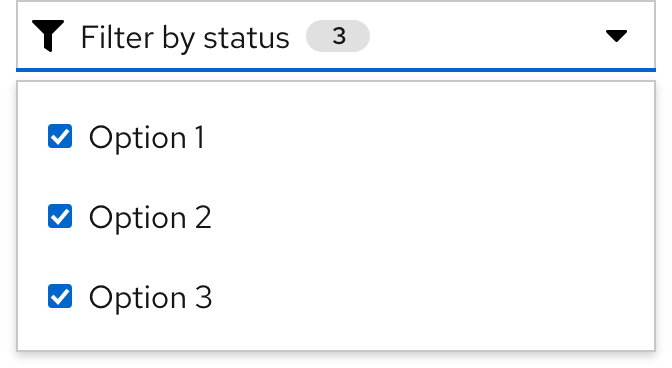
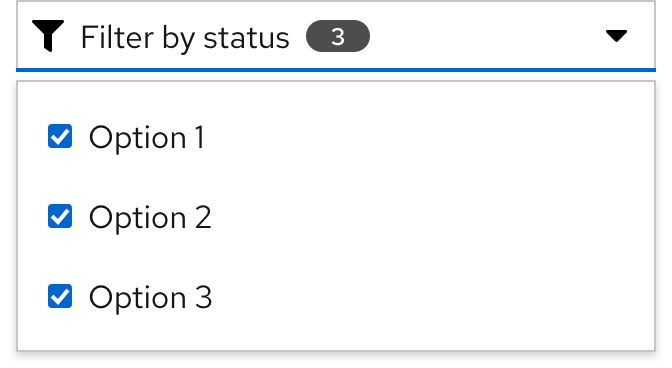
fix(badge): dpo tokens (#1912)
* fix(badge): dpo tokens

* test(badge): update test cases for DPO tokens

* chore: update deps

* test(badge): update specs for DPO tokens

* fix(badge) status states for docs and changeset update

* docs(badge): align variant names on the Guidelines page and update `state` attributes on Overview page

* docs(badge): update changeset + improve formatting

* fix(badge): update deprecated aliases per guidance

* docs(badge): make `deprecated` visible for legacy `critical` state

* docs(badge): update images that had old badge colors

* feat(badge): add back the minimum width

* fix(badge): corrected states in caution badge demo

* fix(badge): corrected states in color-context demo

---------

Changed region(s): [[0.4375, 0.0299, 0.5625, 0.1495]]

diff --git a/elements/rh-badge/rh-badge.ts b/elements/rh-badge/rh-badge.ts
@@ -2,6 +2,7 @@ import { LitElement, html } from 'lit';
 import { customElement } from 'lit/decorators/custom-element.js';
 import { property } from 'lit/decorators/property.js';
 import { classMap } from 'lit-html/directives/class-map.js';
+import { observes } from '@patternfly/pfe-core/decorators/observes.js';
 
 import { colorContextConsumer } from '@rhds/elements/lib/context/color/consumer.js';
 
@@ -10,11 +11,12 @@ import styles from './rh-badge.css';
 /**
  * A badge is used to annotate other information like a label or an object name.
  *
- * - **info**: Indicates informative or low impact
- * - **success**: Indicates stability or completion
- * - **moderate**: Indicates caution
- * - **important**: Indicates an error
- * - **critical**: Indicates danger or something critical
+ *  - `neutral` - Indicates generic information or a message with no severity.
+ *  - `danger` - Indicates a danger state, like an error that is blocking a user from completing a task.
+ *  - `warning` - Indicates a warning state, like a non-blocking error that might need to be fixed.
+ *  - `caution` - Indicates an action or notice which should immediately draw the attention
+ *  - `info` - Indicates helpful information or a message with very little to no severity.
+ *  - `success` - Indicates a success state, like if a process was completed without errors.
  *
  * @summary Annotates information like a label or object
  *
@@ -28,12 +30,17 @@ export class RhBadge extends LitElement {
   /**
    * Denotes the state-of-affairs this badge represents
    */
-  @property({ reflect: true }) state?:
-    | 'info'
+  @property({ reflect: true }) state:
+    | 'danger'
+    | 'warning'
+    | 'caution'
+    | 'neutral'
     | 'success'
-    | 'moderate'
-    | 'important'
-    | 'critical';
+    | 'moderate' // deprecated
+    | 'important' // deprecated
+    | 'critical' // deprecated
+    | 'info' =
+      'neutral';
 
   /**
    * Sets a numeric value for a badge.
@@ -49,8 +56,31 @@ export class RhBadge extends LitElement {
    */
   @property({ reflect: true, type: Number }) threshold?: number;
 
+  /** Ensures that state is consistent, regardless of input */
+  @observes('state', { waitFor: 'updated' })
+  private stateChanged() {
+    const state = this.state.toLowerCase();
+    switch (state) {
+      // the first four are deprecated pre-DPO status names
+      case 'moderate': this.state = 'warning'; break;
+      case 'important': this.state = 'caution'; break;
+      case 'critical': this.state = 'danger'; break;
+      case 'note': this.state = 'info'; break;
+      // the following are DPO-approved status names
+      case 'danger':
+      case 'warning':
+      case 'caution':
+      case 'neutral':
+      case 'info':
+      case 'success':
+        return;
+      default:
+        this.state = 'neutral';
+    }
+  }
+
   override render() {
-    const { threshold, number, textContent, on = '', state = '' } = this;
+    const { threshold, number, textContent, on = 'light', state = 'neutral' } = this;
     const displayText =
         (threshold && number && (threshold < number)) ? `${threshold.toString()}+`
       : (number != null) ? number.toString()
@@ -59,8 +89,8 @@ export class RhBadge extends LitElement {
     return html`
       <span class="${classMap({
         on: true,
-        [on]: !!on,
-        [state]: !!state,
+        [on]: true,
+        [state]: true,
       })}">${displayText}</span>
     `;
   }

diff --git a/elements/rh-badge/test/rh-badge.spec.ts b/elements/rh-badge/test/rh-badge.spec.ts
@@ -13,11 +13,11 @@ describe('<rh-badge>', function() {
         .and
         .to.be.an.instanceOf(RhBadge);
   });
-  it(`should have a background color '--rh-color-surface-lighter' when state is unset`, async function() {
+  it(`should have a background color '--rh-color-status-neutral-on-light' when state is unset`, async function() {
     const element = await createFixture <RhBadge>(html`<rh-badge></rh-badge>`);
     // NB: querying shadow root in tests is bad, mmkay?
     const styles = getComputedStyle(element.shadowRoot!.querySelector('.on')!);
-    expect(styles.backgroundColor).to.be.colored(tokens.get('--rh-color-surface-lighter')!);
+    expect(styles.backgroundColor).to.be.colored(tokens.get('--rh-color-status-neutral-on-light')!);
   });
 });
 
@@ -34,11 +34,12 @@ it('should have a pill shape and padding on left and right only', async function
 });
 
 for (const [state, token] of Object.entries({
-  info: '--rh-color-status-note-on-light',
-  success: '--rh-color-status-success-on-light',
-  moderate: '--rh-color-status-caution-on-light',
-  important: '--rh-color-status-warning-on-light',
-  critical: '--rh-color-status-danger-on-light',
+  neutral: '--rh-color-status-neutral',
+  info: '--rh-color-status-info',
+  success: '--rh-color-status-success',
+  caution: '--rh-color-status-caution',
+  warning: '--rh-color-status-warning',
+  danger: '--rh-color-status-danger',
 })) {
   describe(`state="${state}"`, function() {
     let element: RhBadge;
@@ -52,18 +53,17 @@ for (const [state, token] of Object.entries({
       // NB: querying shadow root in tests is bad, mmkay?
       styles = getComputedStyle(element.shadowRoot!.querySelector('.on')!);
     });
-    it(`should have a background color '${token}'`, async function() {
-      expect(styles.backgroundColor).to.be.colored(tokens.get(token)!);
+    it(`should have a background color '${token}-on-light'`, async function() {
+      expect(styles.backgroundColor).to.be.colored(tokens.get(`${token}-on-light`)!);
     });
     describe('on a dark background', function() {
-      const darkToken = token.replace('on-light', 'on-dark');
       beforeEach(async function() {
         await createFixture<RhSurface>(html`
           <rh-surface color-palette="darkest">${element}</rh-surface>
         `);
       });
-      it(`should have a background color '${darkToken}'`, async function() {
-        expect(styles.backgroundColor).to.be.colored(tokens.get(darkToken)!);
+      it(`should have a background color '${token}-on-dark'`, async function() {
+        expect(styles.backgroundColor).to.be.colored(tokens.get(`${token}-on-dark`)!);
       });
     });
   });

diff --git a/elements/rh-badge/rh-badge.css b/elements/rh-badge/rh-badge.css
@@ -6,25 +6,25 @@ span {
   white-space: nowrap;
   text-align: center;
   aspect-ratio: var(--_aspect-ratio);
-  background-color: var(--rh-color-surface-lighter, #f2f2f2);
   border-radius: var(--rh-border-radius-pill, 64px);
-  color: var(--rh-color-text-primary);
-  min-width: var(--_badge-size);
+  min-width: var(--_badge-size, var(--rh-length-lg, 16px));
   font-size: var(--rh-font-size-body-text-xs, 0.75rem);
   font-weight: 700;
   line-height: var(--rh-line-height-body-text, 1.5);
   padding-inline: var(--_badge-padding, var(--rh-space-md, 8px));
 }
 
-.on.dark { background-color: var(--rh-color-surface-darker, #1f1f1f); }
-.on.info { background-color: var(--rh-color-status-note); }
+.on.dark { color: var(--rh-color-text-primary-on-light, #151515); }
+.on.light { color: var(--rh-color-text-primary-on-dark, #ffffff); }
+
+.on.neutral { background-color: var(--rh-color-status-neutral); }
+.on.info { background-color: var(--rh-color-status-info); }
 .on.success { background-color: var(--rh-color-status-success); }
-.on.moderate { background-color: var(--rh-color-status-caution); }
-.on.important { background-color: var(--rh-color-status-warning); }
-.on.critical { background-color: var(--rh-color-status-danger); }
+.on.caution { background-color: var(--rh-color-status-caution); }
+.on.warning { background-color: var(--rh-color-status-warning); }
+.on.danger { background-color: var(--rh-color-status-danger); }
 
-.info.on.light { color: var(--rh-color-text-primary-on-dark, #ffffff); }
-
-:is(.info,.success,.moderate,.important,.critical).on.dark {
+.on.light.warning,
+.on.light.caution {
   color: var(--rh-color-text-primary-on-light, #151515);
 }

diff --git a/elements/rh-badge/demo/color-context.html b/elements/rh-badge/demo/color-context.html
@@ -1,8 +1,8 @@
 <rh-context-demo>
   <rh-badge number="1">1</rh-badge>
-  <rh-badge number="1" state="critical">1</rh-badge>
-  <rh-badge number="2" state="important">2</rh-badge>
-  <rh-badge number="3" state="moderate">3</rh-badge>
+  <rh-badge number="1" state="danger">1</rh-badge>
+  <rh-badge number="2" state="caution">2</rh-badge>
+  <rh-badge number="3" state="warning">3</rh-badge>
   <rh-badge number="5" state="info">5</rh-badge>
   <rh-badge number="8" state="success">8</rh-badge>
   <rh-badge number="1000" threshold="999" state="success">1000</rh-badge>

diff --git a/elements/rh-badge/demo/caution.html b/elements/rh-badge/demo/caution.html
@@ -1,0 +1,8 @@
+<rh-badge number="7" state="caution">7</rh-badge>
+<rh-badge number="24" state="caution">24</rh-badge>
+<rh-badge number="240" state="caution">240</rh-badge>
+<rh-badge threshold="900" number="999" state="caution">999</rh-badge>
+
+<script type="module">
+  import '@rhds/elements/rh-badge/rh-badge.js';
+</script>

diff --git a/elements/rh-badge/demo/neutral.html b/elements/rh-badge/demo/neutral.html
@@ -1,0 +1,8 @@
+<rh-badge number="7" state="neutral">7</rh-badge>
+<rh-badge number="24" state="neutral">24</rh-badge>
+<rh-badge number="240" state="neutral">240</rh-badge>
+<rh-badge threshold="900" number="999" state="neutral">999</rh-badge>
+
+<script type="module">
+  import '@rhds/elements/rh-badge/rh-badge.js';
+</script>

diff --git a/elements/rh-badge/demo/warning.html b/elements/rh-badge/demo/warning.html
@@ -1,0 +1,8 @@
+<rh-badge number="7" state="warning">7</rh-badge>
+<rh-badge number="24" state="warning">24</rh-badge>
+<rh-badge number="240" state="warning">240</rh-badge>
+<rh-badge threshold="900" number="999" state="warning">999</rh-badge>
+
+<script type="module">
+  import '@rhds/elements/rh-badge/rh-badge.js';
+</script>

diff --git a/elements/rh-badge/demo/danger.html b/elements/rh-badge/demo/danger.html
@@ -1,0 +1,8 @@
+<rh-badge number="7" state="danger">7</rh-badge>
+<rh-badge number="24" state="danger">24</rh-badge>
+<rh-badge number="240" state="danger">240</rh-badge>
+<rh-badge threshold="900" number="999" state="danger">999</rh-badge>
+
+<script type="module">
+  import '@rhds/elements/rh-badge/rh-badge.js';
+</script>

diff --git a/elements/rh-badge/demo/deprecated-states.html b/elements/rh-badge/demo/deprecated-states.html
@@ -1,0 +1,8 @@
+<rh-badge state="moderate" number="900">900</rh-badge>
+<rh-badge state="important" number="900">900</rh-badge>
+<rh-badge state="critical" number="900">900</rh-badge>
+<rh-badge state="note" number="900">900</rh-badge>
+
+<script type="module">
+  import '@rhds/elements/rh-badge/rh-badge.js';
+</script>

diff --git a/elements/rh-badge/docs/20-guidelines.md b/elements/rh-badge/docs/20-guidelines.md
@@ -12,10 +12,6 @@ meanings.
   for many readers. Go to the <a href="../accessibility/">Accessibility</a> page to learn more.</p>
 </rh-alert>
 
-<uxdot-example width-adjustment="202px">
-  <img src="../badge-variants.png" alt="Image of neutral, default, success, warning, error, and danger badges in a row">
-</uxdot-example>
-
 <rh-table>
   <table>
     <thead>
@@ -42,19 +38,19 @@ meanings.
         <td data-label="Use case">Indicates stability or completion</td>
       </tr>
       <tr>
-        <td data-label="Badge"><rh-badge state="moderate">17<rh-badge></td>
-        <td data-label="Name">Moderate</td>
-        <td data-label="Use case">Indicates caution</td>
+        <td data-label="Badge"><rh-badge state="warning">17<rh-badge></td>
+        <td data-label="Name">Warning</td>
+        <td data-label="Use case">Indicates a warning</td>
       </tr>
       <tr>
-        <td data-label="Badge"><rh-badge state="important">17<rh-badge></td>
-        <td data-label="Name">Important</td>
+        <td data-label="Badge"><rh-badge state="caution">17<rh-badge></td>
+        <td data-label="Name">Caution</td>
+        <td data-label="Use case">Indicates an increased need for caution or attention</td>
+      </tr>
+      <tr>
+        <td data-label="Badge"><rh-badge state="danger">17<rh-badge></td>
+        <td data-label="Name">Danger</td>
         <td data-label="Use case">Indicates an error</td>
-      </tr>
-      <tr>
-        <td data-label="Badge"><rh-badge state="critical">17<rh-badge></td>
-        <td data-label="Name">Critical</td>
-        <td data-label="Use case">Indicates danger or something critical</td>
       </tr>
     </tbody>
   </table>
@@ -73,8 +69,8 @@ The width of a badge varies based on the counter number. Using a number larger
 than the threshold will display a + at the end. For example, if `999` is the 
 threshold, using `1,000` or larger will display `999+`.
 
-<uxdot-example width-adjustment="174px">
-  <img src="../badge-counter-number.png" alt="Badges with various counter numbers; from left to right, a badge with 1, a badge with 50, a badge with 500, and a badge with 999+">
+<uxdot-example width-adjustment="198px">
+  <img src="../badge-counter-number.svg" alt="Badges with various counter numbers; from left to right, a badge with 1, a badge with 50, a badge with 500, and a badge with 999+">
 </uxdot-example>
 
 
@@ -94,8 +90,8 @@ that are made in a toolbar filter or select list.
 
 Do not allow a badge to display a count over 999.
 
-<uxdot-example danger width-adjustment="75px">
-  <img src="../badge-best-practice-1.png" alt="A badge counting to 1,00,000 which is incorrect usage">
+<uxdot-example danger width-adjustment="74px">
+  <img src="../badge-best-practice-large-number-dont.svg" alt="A badge counting to 1,00,000 which is incorrect usage">
 </uxdot-example>
 
 ### Two badges
@@ -104,7 +100,7 @@ Be careful using two badges. Using color only and the lack of other visual cues
 might make it difficult to differentiate unread or actionable items associated 
 with the badges.
 
-<uxdot-example danger width-adjustment="77px">
-  <img src="../badge-best-practice-2.png" alt="Two badges with the same counter number, but with different background colors and no other unique visual cues which is incorrect usage">
+<uxdot-example danger width-adjustment="85px">
+  <img src="../badge-best-practice-two-badges-dont.svg" alt="Two badges with different background colors and no other unique visual cues which is incorrect usage">
 </uxdot-example>
 

diff --git a/elements/rh-badge/docs/10-style.md b/elements/rh-badge/docs/10-style.md
@@ -5,7 +5,7 @@ A badge is number text on a pill background used to reflect the count of somethi
 
 <figure>
   <uxdot-example width-adjustment="102px">
-    <img src="../badge-anatomy.png" alt="Anatomy of a badge with annotations; number 1 is pointing to the container and number 2 is pointing to the counter number">
+    <img src="../badge-anatomy.svg" alt="Anatomy of a badge with annotations; number 1 is pointing to the container and number 2 is pointing to the counter number">
   </uxdot-example>
   <figcaption>
     <ol>
@@ -17,25 +17,33 @@ A badge is number text on a pill background used to reflect the count of somethi
 
 ## Theme 
 
-A badge is available in the light theme only.
+A badge is available in light and dark theme.
 
-<uxdot-example width-adjustment="72px">
-  <img src="../badge-theme-light.png" alt="Light theme badges">
+### Light theme
+
+<uxdot-example width-adjustment="272px">
+  <img src="../badge-theme-light.svg" alt="Light theme badges">
+</uxdot-example>
+
+### Dark theme
+
+<uxdot-example width-adjustment="272px" color-palette="darkest">
+  <img src="../badge-theme-dark.svg" alt="Dark theme badges">
 </uxdot-example>
 
 ## Configuration 
 
 All badges have the same height and border radius.
 
-<uxdot-example width-adjustment="249px">
-  <img src="../badge-configuration.png" alt="How a badge is constructed showing border radius and height details">  
+<uxdot-example width-adjustment="350px">
+  <img src="../badge-configuration.svg" alt="How a badge is constructed showing border radius and height details">
 </uxdot-example>
 
 
 ## Space and width 
 
-<uxdot-example width-adjustment="199px">
-  <img src="../badge-space-and-width.png" alt="Badge spacing and minimum width">
+<uxdot-example width-adjustment="238px">
+  <img src="../badge-space-and-width.svg" alt="Badge spacing and minimum width">
 </uxdot-example>
 
 <rh-table>
@@ -58,7 +66,7 @@ All badges have the same height and border radius.
     <tbody>
       <tr>
         <td data-label="Property">Minimum width</td>
-        <td data-label="Current value">32px<br>2.0rem</td>
+        <td data-label="Current value">--rh-length-2xl</td>
       </tr>
     </tbody>
   </table>

diff --git a/elements/rh-badge/docs/00-overview.md b/elements/rh-badge/docs/00-overview.md
@@ -2,8 +2,8 @@
 
 {{ tagName | getElementDescription }}
 
-<uxdot-example width-adjustment="72px">
-  <img src="./badge-sample-element.png" alt="Two badges; from left to right, one badge has a light gray background with a dark gray counter number and the other badge has a blue background with a white counter number">
+<uxdot-example width-adjustment="80px">
+  <img src="./badge-sample-element.svg" alt="Two badges; from left to right, one badge has a dark gray background with a white counter number and the other badge has a purple background with a white counter number.">
 </uxdot-example>
 
 {% repoStatusList repoStatus=repoStatus %}
@@ -13,10 +13,10 @@
 
 <rh-badge number="1" aria-label="1 new message">1</rh-badge>
 <rh-badge number="99" state="info" aria-label="99 details">99</rh-badge>
-<rh-badge number="100" threshold="99" state="moderate" aria-label="99+ details">100</rh-badge>
 <rh-badge number="11" threshold="10" state="success" aria-label="10+ items">11</rh-badge>
-<rh-badge number="6" state="important" aria-label="6 overdue tasks">6</rh-badge>
-<rh-badge number="2" state="critical" aria-label="2 errors">2</rh-badge>
+<rh-badge number="100" threshold="99" state="warning" aria-label="99+ details">100</rh-badge>
+<rh-badge number="6" state="caution" aria-label="6 overdue tasks">6</rh-badge>
+<rh-badge number="2" state="danger" aria-label="2 errors">2</rh-badge>
 
 ## When to use
 
